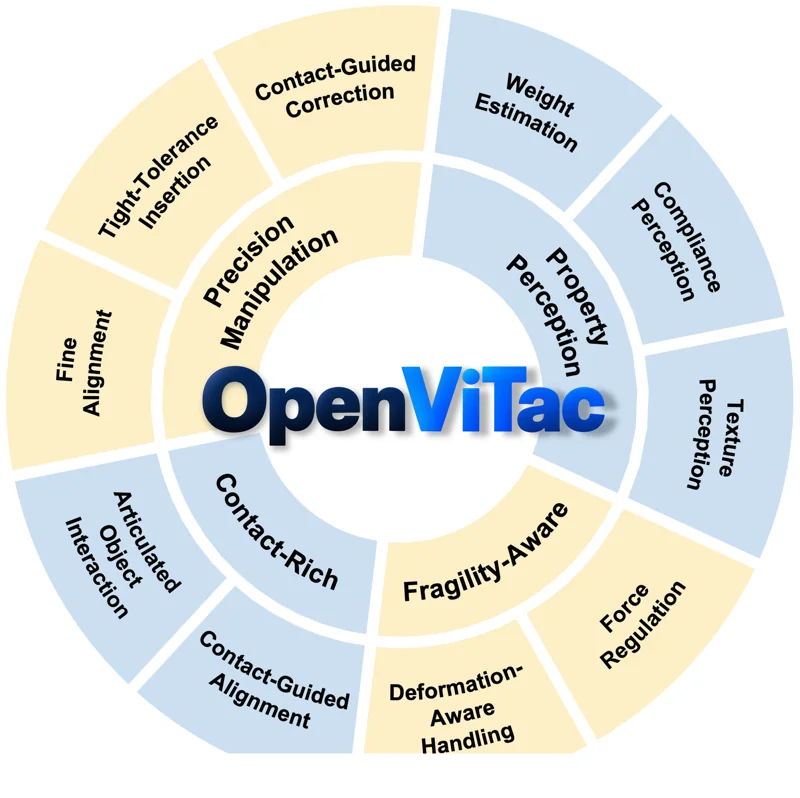
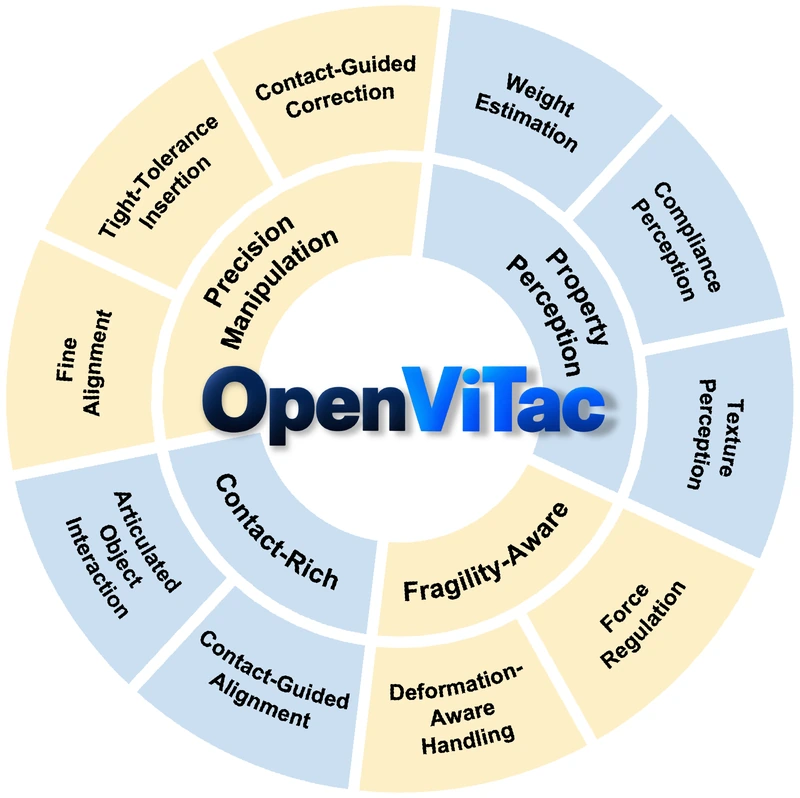
fix(assets): restore the complete capability taxonomy figure
The previous taxonomy export clipped the bottom of the circular diagram.
Re-render the complete page from figs/compability_taxonomy.pdf and replace
all website image variants so responsive views show the same full figure.

- Update the original PNG and the full-size and 800px WebP assets.
- Preserve the complete bottom arc and labels without cropping.
- Correct the HTML image height to match the 1600 x 1596 export.

Validation:
- Visually compared the full-page PDF render and the 800px WebP output.
- Verified the full-size and responsive image dimensions.
- Passed git diff --check.

diff --git a/index.html b/index.html
@@ -219,7 +219,7 @@
                 "
                 sizes="(max-width: 767px) calc(100vw - 36px), 780px"
                 width="1600"
-                height="1595"
+                height="1596"
                 loading="lazy"
                 alt="Taxonomy organizing benchmark tasks by physical-property perception, fragility-aware, contact-rich, and precision capabilities."
             /></a>
